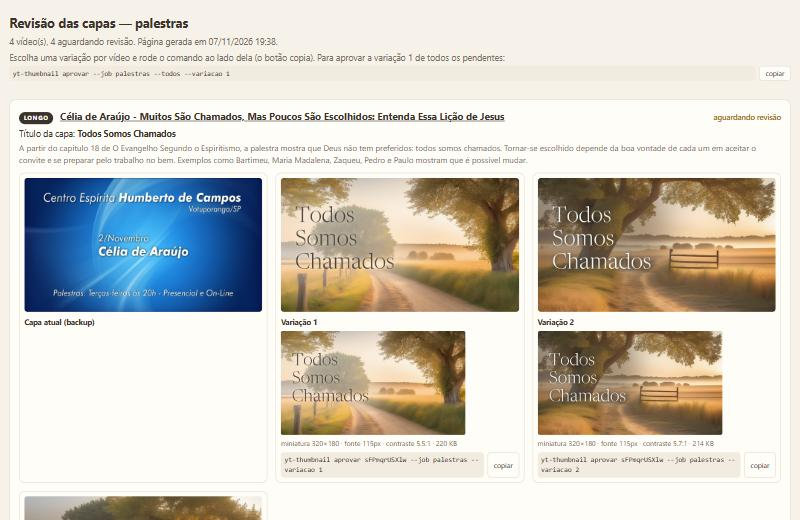
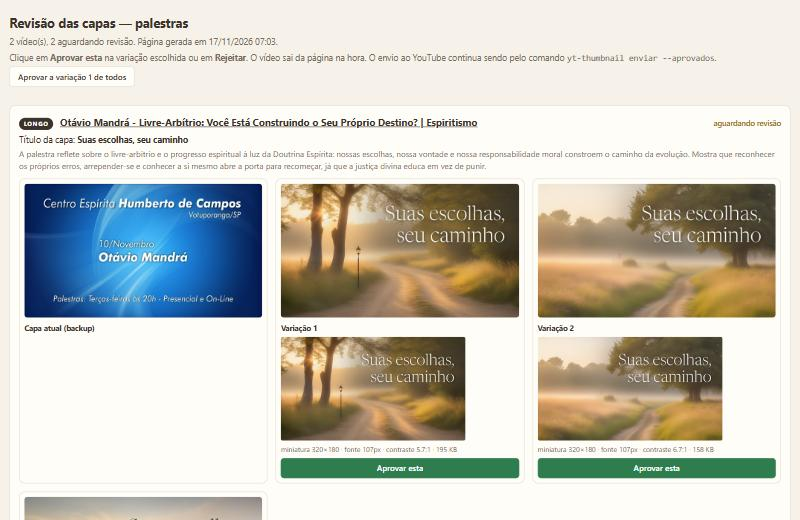
docs: revisão com botões, várias playlists e tempos por fonte de análise
Novo print da página de revisão (revisar --servir), exemplo de config
com três jobs, comparação transcrição × título, filtros --job/--tipo no
tudo e solução de problemas do servidor de revisão.

diff --git a/docs/uso-cli.md b/docs/uso-cli.md
@@ -85,7 +85,7 @@ yt-thumbnail analisar --ids ID_DO_VIDEO --forcar
 
 Gera as imagens de fundo, **sem texto**, com o SDXL na GPU `gpu.imagem`, para os vídeos já analisados. Cada vídeo recebe `--variacoes` imagens (padrão `imagem.variacoes`, 3) com seeds diferentes, geradas na resolução nativa do tipo (1344×768 longo, 768×1344 Short) e ajustadas para a saída (1280×720 / 1080×1920). Grava `base_1..N.png` e `imagens.json` (seeds e parâmetros) e registra `imagens_geradas`.
 
-- O modelo é carregado uma vez por execução (~10 s; ~52 s por imagem numa RTX 3060 Ti); a primeira execução baixa o SDXL (~7 GB) do Hugging Face.
+- O modelo é carregado uma vez por execução (~10 s). Numa RTX 3060 Ti: ~52 s por imagem com duas GPUs; ~60–80 s com uma GPU só e `cpu_offload`. A primeira execução baixa o SDXL (~7 GB) do Hugging Face.
 - `--forcar` gera de novo com seeds novas.
 
 ```powershell
@@ -117,7 +117,7 @@ Nada é enviado ao YouTube sem passar por aqui.
 
 A página fica sempre limpa: `aprovar` e `rejeitar` a regravam na hora, tirando os vídeos decididos (basta recarregar o navegador). Quando não sobra nenhum, ela mostra "Nenhum vídeo aguardando revisão".
 
-A página mostra, por vídeo: selo LONGO/SHORT, título do vídeo (link para o YouTube), situação (aguardando, aprovada a variação N, rejeitado), título da capa e resumo da análise, a capa atual, as variações em tamanho real e em miniatura (320×180 ou 180×320, como aparecem na busca e nas sugestões), as métricas da composição (fonte, contraste, tamanho) e, ao lado de cada variação, o comando de aprovação com um botão **copiar**. Com `--historico`, os pendentes aparecem primeiro e a variação aprovada fica com borda verde.
+A página mostra, por vídeo: selo LONGO/SHORT, título do vídeo (link para o YouTube), situação (aguardando, aprovada a variação N, rejeitado), título da capa e resumo da análise, a capa atual, as variações em tamanho real e em miniatura (320×180 ou 180×320, como aparecem na busca e nas sugestões), as métricas da composição (fonte, contraste, tamanho) e, ao lado de cada variação, o botão **Aprovar esta** (com `--servir`) ou o comando de aprovação com um botão **copiar** (página aberta como arquivo). Com `--historico`, os pendentes aparecem primeiro e a variação aprovada fica com borda verde.
 
 ![Página de revisão](img/revisao.jpg)
 
@@ -134,7 +134,7 @@ Sobe um servidor local em `http://127.0.0.1:8765/` e abre a página por ele. Ass
 - Se a porta 8765 estiver ocupada (outra revisão aberta, por exemplo), use `--porta 8766`.
 - Aberta direto do arquivo (sem `--servir`), a página continua mostrando os comandos para copiar.
 
-Executando no PC das GPUs por SSH, use `--nao-abrir` e abra o arquivo lá, ou pela rede (a página usa caminhos relativos: copiar a pasta `saida/<job>` inteira também funciona).
+O `--servir` só aceita o navegador do próprio PC onde roda. Se você controla o PC das GPUs por SSH, rode o `revisar --servir` sentado nele (ou por Área de Trabalho Remota); pelo SSH, use `revisar --nao-abrir` e abra o arquivo `revisao.html` lá ou pela rede, copiando os comandos (a página usa caminhos relativos: copiar a pasta `saida/<job>` inteira também funciona).
 
 ### `yt-thumbnail aprovar ID [ID...] --variacao N [--job] [--forcar]`
 
@@ -192,11 +192,12 @@ Envia de volta a capa original (`capa_original.jpg`) e marca o vídeo como `reje
 
 Roda `listar → transcrever → analisar → gerar → compor → revisar` e **para na revisão** — o envio é sempre um comando à parte (`enviar --aprovados`).
 
-- Cada etapa só processa o que falta: rodar de novo continua de onde parou (inclusive depois de queda de energia ou erro).
+- Cada etapa só processa o que falta: rodar de novo continua de onde parou (inclusive depois de queda de energia ou erro). Vídeos já enviados, aprovados ou rejeitados não são refeitos; os que aguardam revisão só voltam à página.
 - Erro num vídeo não para o fluxo: fica no estado e aparece no resumo. Uma etapa que falha inteira (ex.: playlist inacessível) também não impede as seguintes de processar o que já existe. Só erro de configuração interrompe.
-- `--limite N`: no máximo N vídeos **novos** por etapa e por job (útil para lotes: `--limite 20` toda noite).
+- `--limite N`: no máximo N vídeos **novos** por etapa e por job (útil para lotes: `--limite 20` toda noite). Os já processados não contam.
+- `--job` e `--tipo`: só uma playlist e/ou só um formato (`longo` ou `short`).
 - `--ate gerar`: para depois da etapa indicada.
-- `--abrir`: abre a página de revisão no fim (padrão: não abre, pensando em execução por SSH ou agendada).
+- `--abrir`: abre a página de revisão (como arquivo) no fim. O padrão é não abrir, pensando em execução por SSH ou agendada; o resumo final sugere `revisar --servir` quando há vídeos aguardando.
 - No fim, um resumo: tempo de cada etapa e, por job, vídeos, quantos chegaram à revisão, pendentes, aprovados, enviados, não elegíveis e erros (com a etapa e a mensagem).
 - Tudo o que aparece no terminal vai também para `saida/logs/tudo-AAAAMMDD-HHMMSS.log`.
 
@@ -205,6 +206,16 @@ As etapas rodam **uma depois da outra**: com 8 GB de RAM, Whisper e SDXL carrega
 ```powershell
 yt-thumbnail tudo                      # todos os jobs, tudo o que falta
 yt-thumbnail tudo --job palestras --limite 10
+yt-thumbnail tudo --tipo short --limite 10            # só os Shorts, de todos os jobs
+yt-thumbnail tudo --job meditacoes --tipo longo       # só os longos de um job
+```
+
+Depois, o fluxo segue com a revisão e o envio:
+
+```powershell
+yt-thumbnail revisar --servir                 # aprove/rejeite pelos botões; Ctrl+C encerra
+yt-thumbnail enviar --aprovados --dry-run     # confira o que vai
+yt-thumbnail enviar --aprovados               # envia ao YouTube
 ```
 
 Para rodar todo dia sozinho, agende no **Agendador de Tarefas** do Windows: programa `C:\Users\<você>\yt-thumbnail\.venv\Scripts\yt-thumbnail.exe`, argumentos `tudo --limite 20`, iniciar em `C:\Users\<você>\yt-thumbnail`.

diff --git a/docs/configuracao.md b/docs/configuracao.md
@@ -108,6 +108,41 @@ Lista de associações playlist → canal → preset.
 
 Todos os vídeos da playlist são listados e classificados, mas só os tipos em `tipos` seguem para as próximas etapas. Os outros aparecem como "fora do job" no `yt-thumbnail listar`.
 
+### Exemplo com várias playlists
+
+Cada playlist é um job. Vários jobs podem usar o mesmo canal e o mesmo preset:
+
+```yaml
+jobs:
+  - nome: meditacoes                 # longos e Shorts, análise pela transcrição
+    playlist: https://www.youtube.com/playlist?list=PL...
+    canal: espiritual-principal
+    preset: espiritualidade
+    tipos: [longo, short]
+
+  - nome: palestras                  # palestras de ~40 min: só título e descrição
+    playlist: https://www.youtube.com/playlist?list=PL...
+    canal: espiritual-principal
+    preset: espiritualidade
+    tipos: [longo]
+    fonte_analise: titulo
+
+  - nome: videos                     # só longos, análise pela transcrição
+    playlist: https://www.youtube.com/playlist?list=PL...
+    canal: espiritual-principal
+    preset: espiritualidade
+    tipos: [longo]
+```
+
+Para incluir uma playlist nova, acrescente um bloco no fim, rode `yt-thumbnail validar` e depois `yt-thumbnail tudo --job <nome> --limite 3` para medir o tempo por vídeo. Um vídeo que esteja em duas playlists configuradas existe nos dois jobs; nos comandos por ID, informe qual com `--job`.
+
+### Transcrição ou só o título?
+
+| `fonte_analise` | Tempo por vídeo (RTX 3060 Ti, 1 GPU) | Quando usar |
+|---|---|---|
+| `transcricao` | vídeo curto: ~4–5 min. Palestra de ~40 min: ~11 min | o tema só aparece na fala; títulos genéricos |
+| `titulo` | ~3,5 min (quase tudo é a geração das 3 imagens) | o título já diz o tema (ex.: "Nome - Tema \| Canal") |
+
 ## Arquivos gerados
 
 - `saida/estado.db`: estado de cada vídeo (SQLite), ver [arquitetura.md](arquitetura.md).

diff --git a/PLANO.md b/PLANO.md
@@ -174,6 +174,7 @@ yt-thumbnail/
 │  ├─ imagem.py              # Fase 4
 │  ├─ composicao.py          # Fase 5
 │  ├─ revisao.py             # Fase 6
+│  ├─ servidor.py            # revisão com botões (revisar --servir), após a 0.1.0
 │  └─ youtube_api.py         # Fase 7
 ├─ scripts/
 │  ├─ check_env.py           # Fase 0
@@ -315,6 +316,8 @@ listado → transcrito → analisado → imagens_geradas → capas_compostas →
 **Docs:** `docs/uso-cli.md` (fluxo de revisão) + captura de tela em `docs/img/`.
 **Aceite:** aprovar/rejeitar funciona e o estado reflete a escolha.
 
+*Depois da 0.1.0:* a página mostra só os vídeos aguardando decisão (`--historico` mostra todos) e é regravada a cada `aprovar`/`rejeitar`; `revisar --servir` abre a página por um servidor local (só 127.0.0.1, com token) com botões **Aprovar esta**, **Rejeitar** e **Aprovar a variação 1 de todos**, sem copiar comandos.
+
 ### Fase 7 — Autenticação multicanal e envio ✅ concluída (2026-11-16)
 **Tarefas**
 - `yt-thumbnail auth --canal <apelido>` e `yt-thumbnail canais` (seção 4).
@@ -393,7 +396,8 @@ No início de cada sessão: pedir ao Claude Code para ler este `PLANO.md`, o `CH
 - [x] Identidade visual: preset **Espiritualidade** (seção 5)
 - [x] 3 variações por vídeo
 - [x] SDXL 1.0 base
-- [x] Revisão por HTML estático
+- [x] Revisão por HTML estático (e, depois da 0.1.0, servidor local opcional com botões: `revisar --servir`)
+- [x] Palestras longas: análise só pelo título e descrição (`fonte_analise: titulo`), sem transcrever; ~3,5 min por vídeo em vez de ~11
 - [x] Licença: GNU GPL v3.0
 - [x] Nome: **yt-thumbnail**
 - [x] Símbolos religiosos: sempre neutros

diff --git a/docs/solucao-de-problemas.md b/docs/solucao-de-problemas.md
@@ -174,7 +174,23 @@ Sem internet ou o YouTube recusou o pedido. A página é gerada mesmo assim ("ca
 
 ### O botão "copiar" não copia
 
-Alguns navegadores bloqueiam a área de transferência em páginas abertas como arquivo (`file://`). Selecione o comando e copie com Ctrl+C.
+Alguns navegadores bloqueiam a área de transferência em páginas abertas como arquivo (`file://`). Selecione o comando e copie com Ctrl+C, ou abra a revisão com `yt-thumbnail revisar --servir`, que troca os comandos por botões de aprovar.
+
+### `revisar --servir`: "não foi possível usar a porta 8765"
+
+Já há outra revisão aberta (outro terminal com `--servir`) ou outro programa usa a porta. Feche a outra revisão com Ctrl+C ou use outra porta: `revisar --servir --porta 8766`.
+
+### Ao clicar em "Aprovar esta": "Não deu certo... O servidor ainda está aberto?"
+
+O terminal do `revisar --servir` foi fechado ou encerrado com Ctrl+C. Rode o comando de novo; a página abre outra vez com os vídeos que ainda faltam.
+
+### Ao clicar: "token inválido; recarregue a página"
+
+O servidor foi reiniciado e a aba ainda é da execução anterior (cada execução usa um token novo). Recarregue a página (F5).
+
+### Os botões não aparecem, só os comandos
+
+A página foi aberta como arquivo (`file:///.../revisao.html`), não pelo servidor. Use o endereço que o `revisar --servir` mostra (`http://127.0.0.1:8765/...`).
 
 ### `está em mais de um job; use --job`
 

diff --git a/CHANGELOG.md b/CHANGELOG.md
@@ -10,6 +10,9 @@ Formato baseado em [Keep a Changelog](https://keepachangelog.com/pt-BR/1.1.0/); 
 - `revisar --historico` mostra também os vídeos já decididos.
 - `revisar --servir [--porta 8765]`: abre a revisão por um servidor local (só 127.0.0.1, com token por sessão) e a página ganha botões **Aprovar esta**, **Rejeitar** e **Aprovar a variação 1 de todos**, sem copiar comandos para o PowerShell. O vídeo decidido sai da página na hora; Ctrl+C encerra. O envio ao YouTube continua sendo só pelo `enviar`.
 
+### Documentação
+- Docs revisados para o fluxo com `revisar --servir`: novo print da página de revisão (com os botões), exemplo de `config.yaml` com várias playlists e comparação de tempo entre `fonte_analise: transcricao` e `titulo` (`configuracao.md`), filtros `--job`/`--tipo` no `tudo` (`uso-cli.md`) e problemas comuns do servidor de revisão (`solucao-de-problemas.md`).
+
 ### Alterado
 - A página de revisão mostra só os vídeos aguardando decisão, e `aprovar`/`rejeitar` a regravam na hora (o vídeo decidido sai da página). O backup da capa atual continua sendo baixado também para os aprovados.
 

diff --git a/README.md b/README.md
@@ -6,11 +6,11 @@ Gerador automático de capas (thumbnails) para playlists do YouTube, rodando **l
 
 Para cada vídeo (longo ou Short) de uma playlist pública dos seus canais, o yt-thumbnail:
 
-1. obtém a transcrição (legenda do YouTube ou `faster-whisper` na GPU);
+1. obtém a transcrição (legenda do YouTube ou `faster-whisper` na GPU) ou, se você preferir rapidez, usa só o título e a descrição;
 2. analisa o conteúdo com o Claude Code e escreve um prompt de imagem e um título curto, seguindo um **preset** de identidade visual;
 3. gera a imagem com **SDXL 1.0**, local e sem texto;
 4. escreve o título com Pillow, conferindo contraste e legibilidade em miniatura;
-5. monta uma página HTML para **revisão humana**, com a capa atual ao lado de 3 variações;
+5. monta uma página para **revisão humana**, com a capa atual ao lado de 3 variações e um botão para aprovar a escolhida;
 6. envia só as capas que você aprovou, pela YouTube Data API e no canal certo, guardando a capa original para poder voltar atrás.
 
 Shorts ganham capa vertical, com o título no quadrado central:

diff --git a/docs/arquitetura.md b/docs/arquitetura.md
@@ -44,6 +44,7 @@ Um erro **não** muda o status: o vídeo continua onde estava e é tentado de no
 | `imagem.py` | Fase 4: SDXL, variações e ajuste para a saída |
 | `composicao.py` | Fase 5: título sobre as imagens (Pillow), capas e miniaturas |
 | `revisao.py` | Fase 6: backup da capa atual, página de revisão, aprovar/rejeitar |
+| `servidor.py` | servidor local da revisão (`revisar --servir`): botões de aprovar/rejeitar |
 | `youtube_api.py` | Fase 7: OAuth por canal, envio e restauração |
 | `orquestracao.py` | Fase 8: `tudo`, liberação de memória entre etapas, resumo do estado |
 | `ambiente.py` | verificação do ambiente |
